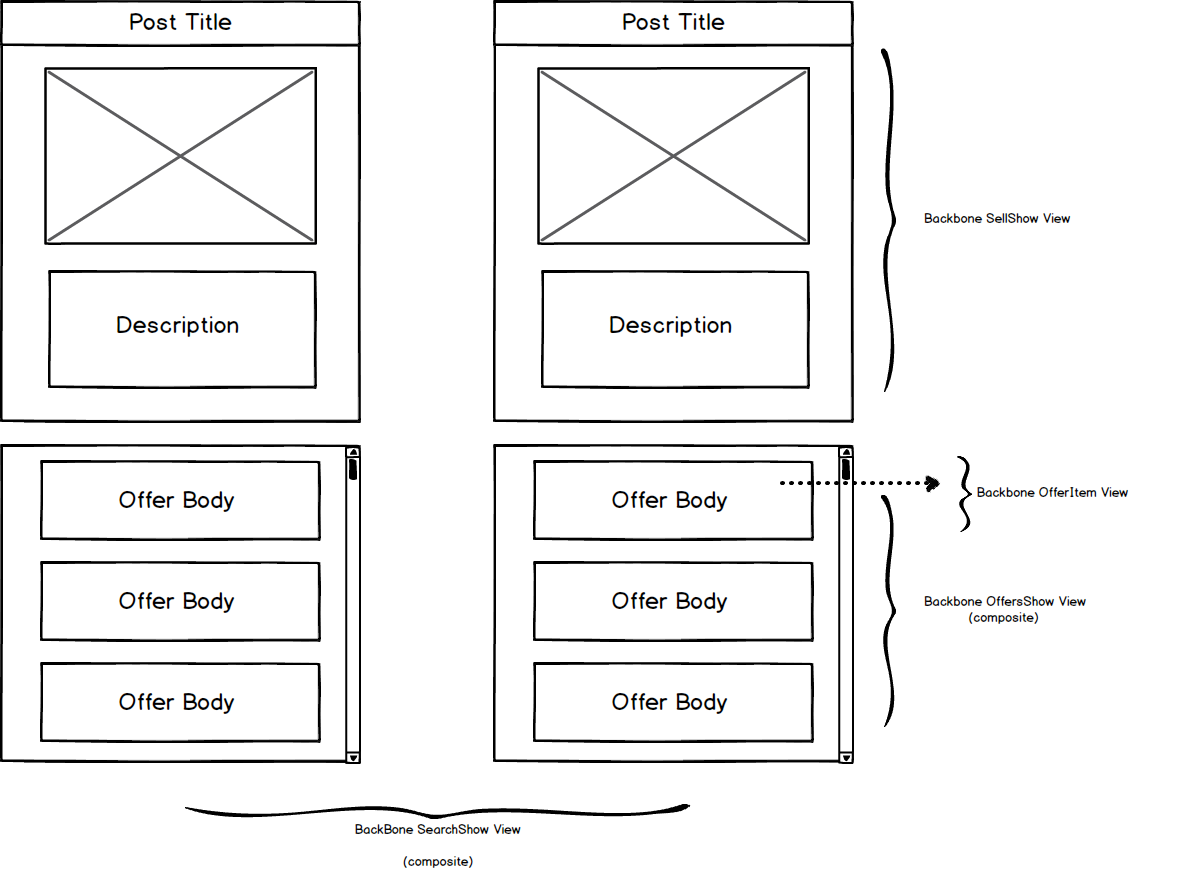
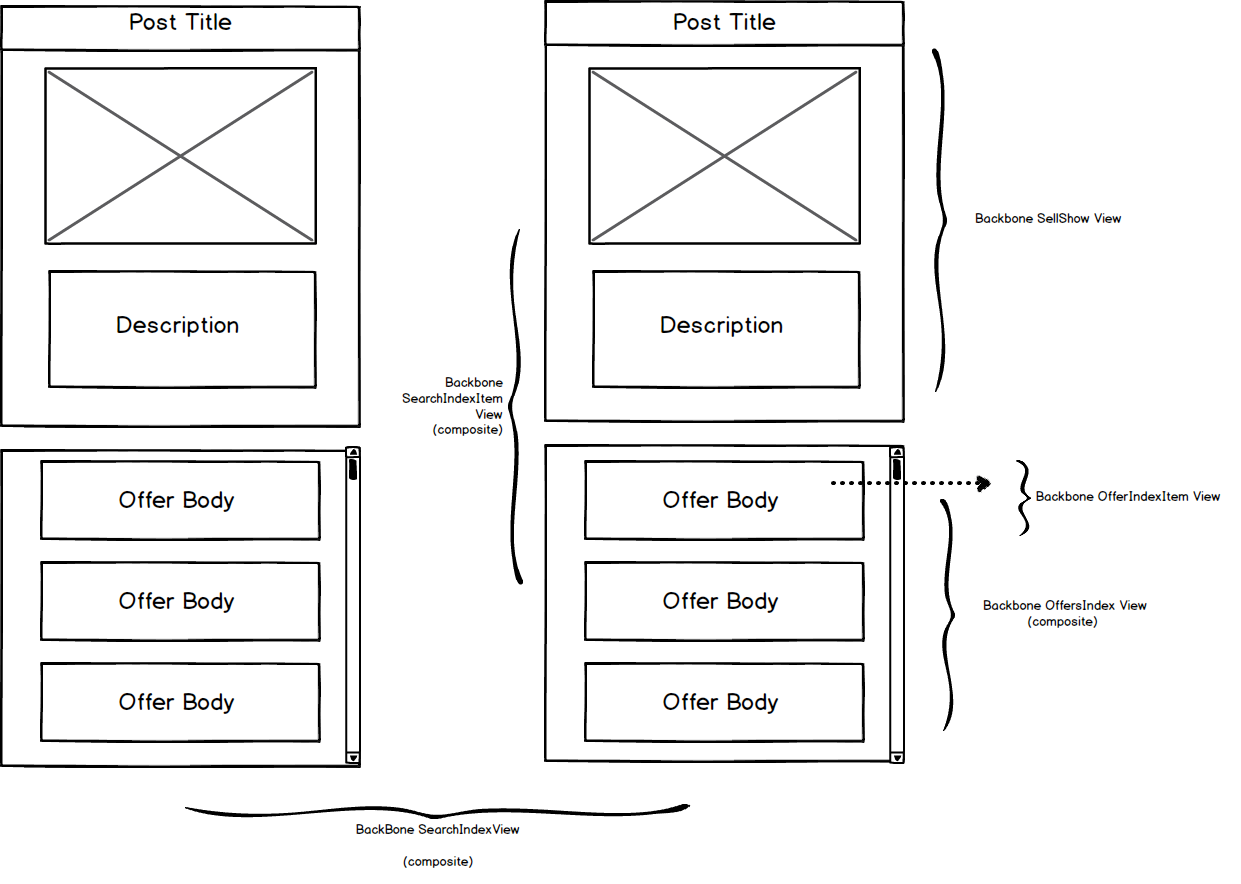
Finished phases and readme

diff --git a/README.md b/README.md
@@ -13,7 +13,6 @@ ZooZer is a clone of Craigslist & Ebay built on Rails and Backbone. Users can:
 - [ ] Create sessions (log in)
 - [ ] Post Items for sale
 - [ ] Users can select a radius to see items for sale
-- [ ] Search for certain items for sale in given radius
 - [ ] Bid on an item for sale
 
 
@@ -26,59 +25,45 @@ ZooZer is a clone of Craigslist & Ebay built on Rails and Backbone. Users can:
 
 ## Implementation Timeline
 
-### Phase 1: User Authentication, Blog Creation (~1 day)
+### Phase 1: User Authentication, Sale Items Creation (~1 day)
 I will implement user authentication in Rails based on the practices learned at
-App Academy. By the end of this phase, users will be able to create blogs using
-a simple text form in a Rails view. The most important part of this phase will
-be pushing the app to Heroku and ensuring that everything works before moving on
+App Academy. By the end of this phase, users will be able to create for sale items and offers using a simple text form in a Rails view. The most important part of this phase will be pushing the app to Heroku and ensuring that everything works before moving on
 to phase 2.
 
 [Details][phase-one]
 
-### Phase 2: Viewing Blogs and Posts (~2 days)
-I will add API routes to serve blog and post data as JSON, then add Backbone
+### Phase 2: Viewing Sale Items and Offers (~2 days)
+I will add API routes to serve sale items and offer data as JSON, then add Backbone
 models and collections that fetch data from those routes. By the end of this
-phase, users will be able to create blogs and view both blogs and posts, all
+phase, users will be able to create sale items and offers, all
 inside a single Backbone app.
 
 [Details][phase-two]
 
-### Phase 3: Editing and Displaying Posts (~2 days)
-I plan to use third-party libraries to add functionality to the `PostForm` and
-`PostShow` views in this phase. First I'll need to add a Markdown editor to the
-`PostForm`, and make sure that the Markdown is properly escaped and formatted in
-the `PostShow` view. I also plan to integrate Filepicker for file upload so
-users can add images to blog posts.
+### Phase 3: Editing and Displaying SaleItems (~1.5 days)
+I plan to use third-party libraries to add functionality to the `SaleItemsForm` and`SaleItemsShow` views in this phase.  I also plan to integrate Filepicker for file upload so users can add images to sale items.
 
 [Details][phase-three]
 
-### Phase 4: User Feeds (~1-2 days)
-I'll start by adding a `feed` route that uses the `current_user`'s
-`subscribed_blogs` association to serve a list of blog posts ordered
-chronologically. On the Backbone side, I'll make a `FeedShow` view whose `posts`
-collection fetches from the new route.  Ultimately, this will be the page users
-see after logging in.
+### Phase 4: Editing and Displaying Offers (~1.5 days)
+I plan to use third-party libraries to add functionality to the 'OffersForm', "OffersItem' views in this phase.
 
 [Details][phase-four]
 
-### Phase 5: Searching for Blogs and Posts (~2 days)
-I'll need to add `search` routes to both the Blogs and Posts controllers. On the
-Backbone side, there will be a `SearchResults` composite view has `BlogsIndex`
-and `PostsIndex` subviews. These views will use plain old `blogs` and `posts`
+### Phase 5: Searching for Blogs and Posts (~3-4 days)
+I'll need to add `search` routes to the SaleItems controllers. On the
+Backbone side, there will be a `SearchResults` composite view has `SalesItemIndex`
+and `OffersIndex` subviews. These views will `saleitems` and `offers`
 collections, but they will fetch from the new `search` routes.
 
 [Details][phase-five]
 
 ### Bonus Features (TBD)
-- [ ] "Like" button and counter for posts
-- [ ] Custom blog urls
-- [ ] Pagination/infinite scroll
-- [ ] Activity history (e.g. likes, reblogs, taggings)
-- [ ] Post types (image posts, quote posts, etc)
-- [ ] Reblogging
-- [ ] Multiple sessions/session management
+- [ ] Search for certain items for sale in given radius
 - [ ] User avatars
-- [ ] Typeahead search bar
+- [ ] Activity history (e.g. listed items, items bid on)
+- [ ] Multiple sessions/session management
+
 
 [phase-one]: ./docs/phases/phase1.md
 [phase-two]: ./docs/phases/phase2.md

diff --git a/docs/phases/phase2.md b/docs/phases/phase2.md
@@ -4,25 +4,26 @@
 ### Models
 
 ### Controllers
-Api::ItemsController (create, destroy, index, show)
-Api::OffersController (create, destroy, show, update)
+Api::SellItemsController (create, destroy, update, show)
+Api::OffersController (create, destroy, show, index)
 
 ### Views
-* blogs/show.json.jbuilder
+* items/offers.json.jbuilder
 
 ## Backbone
 ### Models
-* Items (parses nested `offers` association)
+* SellItems (parses nested `offers` association)
 * Offers
 
 ### Collections
-* Items
+* SellItems
 * Offers
 
 ### Views
-* ItemForm
+* SellItemsShow
+* SellItemsForm
+* OffersForm
 * OffersIndex (composite view, contains OffersIndexItem subviews)
 * OffersIndexItem
-* OfferShow
 
 ## Gems/Libraries

diff --git a/docs/phases/phase1.md b/docs/phases/phase1.md
@@ -1,15 +1,15 @@
-# Phase 1: User Authentication, Basic Blogs and Posts
+# Phase 1: User Authentication, Basic SellItems and Offers
 
 ## Rails
 ### Models
 * User
-* Items
+* SellItems
 * Offers
 
 ### Controllers
 * UsersController (create, new)
 * SessionsController (create, new, destroy)
-* ItemsController (create, new, show)
+* SellItemsController (create, new, show)
 * OffersController (create, new, show)
 
 ### Views
@@ -17,6 +17,8 @@
 * session/new.html.erb
 * items/new.html.erb
 * items/show.html.erb
+* offers/new.html.erb
+* offers/show.html.erb
 
 ## Backbone
 ### Models

diff --git a/docs/views.md b/docs/views.md
@@ -15,12 +15,12 @@
 ## Offer Form
 ![offer-form]
 
-## Offer Show
-![offer-show]
+## Offer Index
+![offer-index]
 
 [new-session]: ./wireframes/new_session.png
 [search-results]: ./wireframes/search_results.png
 [item-sell-form]: ./wireframes/item_sell_form.png
 [item-sell-show]: ./wireframes/item_sell_show.png
 [offer-form]: ./wireframes/offer_form.png
-[offer-show]: ./wireframes/offer_show.png
+[offer-index]: ./wireframes/offer_index.png

diff --git a/docs/phases/phase4.md b/docs/phases/phase4.md
@@ -1,13 +1,11 @@
-# Phase 4: User Feeds
+# Phase 3: Editing and Displaying Posts
 
 ## Rails
 ### Models
 
 ### Controllers
-Api::OffersController (feed)
 
 ### Views
-posts/feed.json.jbuilder
 
 ## Backbone
 ### Models
@@ -15,6 +13,9 @@ posts/feed.json.jbuilder
 ### Collections
 
 ### Views
-* ItemShow (composite view, contains OffersIndex subview)
+* OfferForm
+* OffersIndexItem
 
 ## Gems/Libraries
+* Markdown-js
+* Bootstrap Markdown

diff --git a/docs/phases/phase5.md b/docs/phases/phase5.md
@@ -1,4 +1,4 @@
-# Phase 5: Searching for Blogs and Posts
+# Phase 4: Searching for SellItems
 
 ## Rails
 ### Models
@@ -14,5 +14,7 @@ Api::ItemController (search)
 ### Collections
 
 ### Views
+  SearchIndexItems (composite view,contains SellItemsShow and OffersIndex subviews)
+  SearchIndex (composite view, contains SearchIndexItems)
 
 ## Gems/Libraries

diff --git a/docs/phases/phase3.md b/docs/phases/phase3.md
@@ -13,7 +13,8 @@
 ### Collections
 
 ### Views
-* OfferForm
+* SellItemsShows
+* SellItemsForm
 
 ## Gems/Libraries
 * Filepicker
